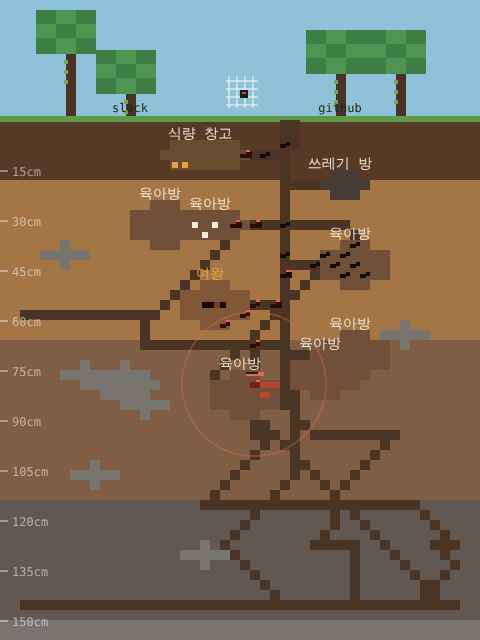
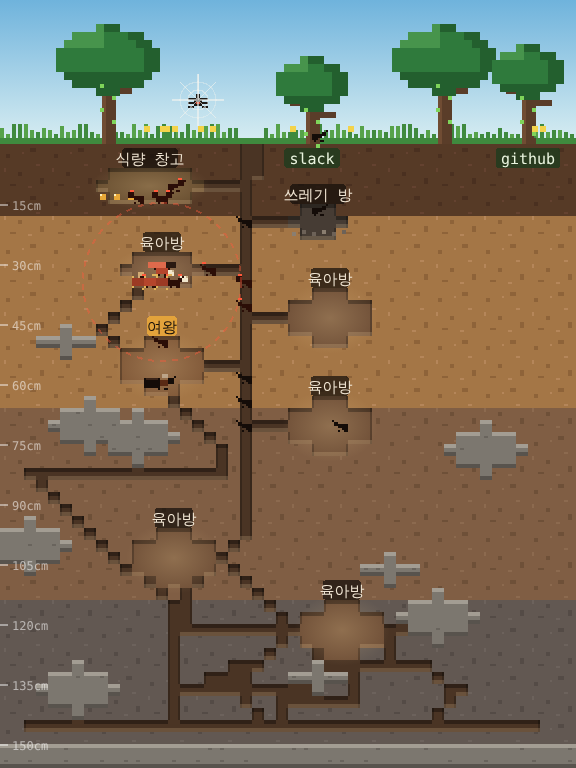
0.3.0: 그래픽 개선, 시간 속도 조정 (접속 1시간 = 게임 하루)
- 흙 질감, 굴 명암, 바위 음영, 방 안 빛, 해·달·구름, 둥근 수관과 계절 장식
- 개미 세 마디와 다리 움직임, 방향 전환, 큰 여왕, 알·애벌레·고치 구분
- 방사형 거미줄, 다리 달린 지네, 점선 경보 원, 글자 배경과 겹침 방지
- 새 방이 기존 방과 겹치지 않게
- 게임 1년 = 접속 약 70시간, 이벤트 보상 재조정

Claude-Session: https://claude.ai/code/session_01HffbAFkTNBcpRNHbS2QgCj

diff --git a/hooks/render.ts b/hooks/render.ts
@@ -46,65 +46,201 @@ function sprites(w: World, ants: Ant[]): Sprite[] {
 }
 
 // ---------- 데스크톱·모바일: SVG ----------
-const S = 5
+// 같은 색 사각형을 path 하나로 묶어 글자 수를 줄인다. 층(layer)마다 그리는 순서를 지킨다.
+const S = 6
+class Painter {
+  layers: Map<string, string[]>[] = []
+  extra: string[][] = []
+  constructor(n: number) { for (let k = 0; k < n; k++) { this.layers.push(new Map()); this.extra.push([]) } }
+  rect(l: number, x: number, y: number, w: number, h: number, c: string) {
+    if (w <= 0 || h <= 0) return
+    const m = this.layers[l]!; let a = m.get(c); if (!a) { a = []; m.set(c, a) }
+    a.push(`M${+x.toFixed(1)} ${+y.toFixed(1)}h${+w.toFixed(1)}v${+h.toFixed(1)}h${-w.toFixed(1)}z`)
+  }
+  raw(l: number, svg: string) { this.extra[l]!.push(svg) }
+  out() {
+    let o = ''
+    this.layers.forEach((m, k) => { m.forEach((d, c) => { o += `<path fill="${c}" d="${d.join('')}"/>` }); o += this.extra[k]!.join('') })
+    return o
+  }
+}
+const hash = (x: number, y: number) => { let h = (x * 374761393 + y * 668265263) >>> 0; h = ((h ^ (h >>> 13)) * 1274126177) >>> 0; return (h >>> 8) / 16777216 }
+const SOILD = ['#4a3020', '#8e6339', '#6e5038', '#544b46'], SOILL = ['#644230', '#b5865a', '#8c6a4f', '#6c625c']
+const L_BG = 0, L_TERR = 1, L_EDGE = 2, L_ITEM = 3, L_ANT = 4, L_FX = 5, L_TXT = 6
+
 export function svg(w: World, ants: Ant[], lang: Lang = 'ko') {
   const RN = lang === 'en' ? ROOMNAME_EN : ROOMNAME
-  const s = season(w), nt = night(w), parts: string[] = []
-  const r = (x: number, y: number, ww: number, hh: number, c: string) => parts.push(`<rect x="${x}" y="${y}" width="${ww}" height="${hh}" fill="${c}"/>`)
-  r(0, 0, W * S, SURF * S, cellColor(w, 0, 0))
-  for (const t of w.trees) {
-    r(t.x * S - 2, (SURF - t.h) * S, 5, t.h * S, mix('#4a3324', '#000000', nt * 0.4))
-    const lc = LEAF[s]!
-    for (let k = 0; k < 9; k++) r((t.x - 3 + (k % 3) * 2) * S - 2, (SURF - t.h - 2 + Math.floor(k / 3) * 1.4) * S, 2 * S, 1.6 * S, lc[k % 2]!)
-    if (s !== 3) for (let k = 0; k < 3; k++) r(t.x * S - 3, (SURF - t.h + 3 + k) * S, 2, 2, '#6fae4a')
-    if (t.farm) parts.push(`<text x="${t.x * S}" y="${SURF * S - 4}" font-size="6" text-anchor="middle" fill="#1a2a12">${t.farm.slice(0, 14).replace(/[<>&"]/g, '')}</text>`)
+  const s = season(w), nt = night(w), h = hour(w), P = new Painter(7), WW = W * S, HH = H * S, GY = SURF * S
+  const defs: string[] = []
+  // 하늘
+  const top = mix(w.rain > 0 ? '#6d7c86' : ['#8ec5d6', '#6fb3dc', '#c9b48e', '#aeb9c0'][s]!, '#0e1430', nt * 0.85)
+  const bot = mix(w.rain > 0 ? '#a3adb0' : ['#e6efd8', '#d9eef2', '#ecd9b0', '#dfe5e8'][s]!, '#1e2440', nt * 0.75)
+  defs.push(`<linearGradient id="sky" x1="0" y1="0" x2="0" y2="1"><stop offset="0" stop-color="${top}"/><stop offset="1" stop-color="${bot}"/></linearGradient>`)
+  P.raw(L_BG, `<rect width="${WW}" height="${GY}" fill="url(#sky)"/>`)
+  if (nt > 0.5) for (let k = 0; k < 26; k++) P.rect(L_BG, Math.floor(hash(k, 1) * WW), Math.floor(hash(k, 2) * (GY - 30)), 1, 1, hash(k, 3) > 0.7 ? '#ffffff' : '#c8d0f0')
+  // 해와 달: 시각에 따라 하늘을 가로지른다
+  const dayP = (h - 6) / 13, nightP = ((h + 24 - 19) % 24) / 11
+  if (w.rain <= 0) {
+    if (dayP >= 0 && dayP <= 1) { const sx = dayP * (WW - 30) + 10, sy = 34 - Math.sin(dayP * Math.PI) * 26; P.rect(L_BG, sx, sy, 10, 10, s === 1 ? '#ffe27a' : '#fff0b0'); P.rect(L_BG, sx - 2, sy + 2, 14, 6, s === 1 ? '#ffe27a' : '#fff0b0'); P.rect(L_BG, sx + 2, sy - 2, 6, 14, s === 1 ? '#ffe27a' : '#fff0b0') }
+    else if (nightP <= 1) { const mx = nightP * (WW - 30) + 10, my = 30 - Math.sin(nightP * Math.PI) * 20; P.rect(L_BG, mx, my, 8, 8, '#eef0d8'); P.rect(L_BG, mx + 3, my - 1, 6, 6, top) }
   }
-  for (let l = 0; l < 4; l++) { const y0 = l === 0 ? SURF : SURF + [0, 6, 22, 38][l]!, y1 = l === 3 ? H : SURF + [6, 22, 38][l]!; r(0, y0 * S, W * S, (y1 - y0) * S, SOILC[l]!) }
-  r(0, SURF * S - 2, W * S, 3, s === 3 ? '#eef2f1' : s === 2 ? '#9a8a3e' : '#5f9a4a')
-  // 굴과 바위: 같은 색이 이어지는 가로 구간을 한 사각형으로
+  // 구름
+  for (let k = 0; k < 3; k++) {
+    const cx = ((hash(k, 9) * WW + w.tick * (0.3 + k * 0.15)) % (WW + 60)) - 30, cy = 12 + k * 14
+    const cc = w.rain > 0 ? mix('#8a959c', '#000000', nt * 0.5) : mix('#ffffff', '#5a6080', nt * 0.7)
+    P.rect(L_BG, cx, cy, 30, 6, cc); P.rect(L_BG, cx + 6, cy - 4, 16, 5, cc); P.rect(L_BG, cx + 4, cy + 6, 22, 2, mix(cc, '#000000', 0.08))
+  }
+  // 땅 위 풀
+  const grass = s === 3 ? ['#e9eeec', '#ffffff'] : s === 2 ? ['#8f8340', '#a69a4c'] : s === 0 ? ['#6fae4e', '#8cc66a'] : ['#3f8a3e', '#56a24a']
+  P.rect(L_TERR, 0, GY - 3, WW, 3, grass[0]!)
+  for (let x = 0; x < WW; x += 3) { const hh = 2 + Math.floor(hash(x, 7) * 6); if (w.grid[idx(Math.floor(x / S), SURF)] === TUN) continue; P.rect(L_TERR, x, GY - 3 - hh, 2, hh, grass[hash(x, 8) > 0.5 ? 1 : 0]!) }
+  if (s < 2) for (let k = 0; k < 10; k++) { const x = Math.floor(hash(k, 11) * WW); if (w.grid[idx(Math.floor(x / S), SURF)] === TUN) continue; P.rect(L_ITEM, x, GY - 9, 3, 3, s === 0 ? (k % 2 ? '#f4b6c8' : '#fff3a8') : '#f3d34a'); P.rect(L_ITEM, x + 1, GY - 6, 1, 3, grass[0]!) }
+  // 나무: 둥근 수관을 줄마다 다른 폭으로
+  const leaf = s === 0 ? ['#7fbf5c', '#a2d47c', '#5f9e46'] : s === 1 ? ['#2f7a3c', '#47944c', '#235f2e'] : s === 2 ? ['#c26f2a', '#dd9a3e', '#9a5322'] : ['#7a5a42', '#8d6a4e', '#5e4434']
+  for (const t of w.trees) {
+    const bx = t.x * S, trunkTop = GY - t.h * S
+    P.rect(L_TERR, bx - 3, trunkTop, 7, t.h * S, mix('#5a3d29', '#000000', nt * 0.4)); P.rect(L_TERR, bx - 3, trunkTop, 2, t.h * S, mix('#704c33', '#000000', nt * 0.4))
+    P.rect(L_TERR, bx + 4, trunkTop + 14, 8, 3, '#5a3d29'); P.rect(L_TERR, bx - 11, trunkTop + 8, 8, 3, '#5a3d29')
+    const R = t.farm ? 3 : 4, cy = trunkTop - 2
+    for (let r = -R; r <= R; r++) {
+      const half = Math.round(Math.sqrt(R * R - r * r) * 1.3 + 0.5)
+      for (let c = -half; c <= half; c++) {
+        const shade = r < -R / 3 && c < 0 ? 1 : r > R / 3 || c > half - 2 ? 2 : 0
+        P.rect(L_TERR, bx + c * 4 - 2, cy + r * 4, 4, 4, mix(leaf[shade]!, '#081020', nt * 0.45))
+      }
+    }
+    if (s === 3) for (let c = -R; c <= R; c++) P.rect(L_ITEM, bx + c * 4 - 2, cy - R * 4 - 1, 4, 2, '#f4f7f6')
+    if (s === 0) for (let k = 0; k < 6; k++) P.rect(L_ITEM, bx - 12 + Math.floor(hash(t.x, k) * 24), cy - 10 + Math.floor(hash(k, t.x) * 18), 3, 3, '#f8cdd8')
+    if (s === 2 && t.x % 2 === 0) for (let k = 0; k < 4; k++) P.rect(L_ITEM, bx - 10 + k * 6, cy - 2 + (k % 2) * 6, 3, 3, '#e8642c')
+    if (s !== 3) for (let k = 0; k < 4; k++) P.rect(L_ITEM, bx + (k % 2 ? 2 : -4), GY - (t.h - 2 - k) * S, 2, 2, '#7fd45a')
+  }
+  // 흙: 층마다 질감 패턴
+  const bands = [[0, 6], [6, 22], [22, 38], [38, H - SURF]]
+  bands.forEach(([a, b], l) => {
+    defs.push(`<pattern id="soil${l}" width="24" height="24" patternUnits="userSpaceOnUse"><rect width="24" height="24" fill="${SOILC[l]}"/><path fill="${SOILD[l]}" d="M3 5h2v2h-2zM15 2h3v2h-3zM9 14h2v2h-2zM20 17h2v3h-2zM5 20h3v1h-3z"/><path fill="${SOILL[l]}" d="M11 4h1v1h-1zM18 10h2v1h-2zM2 12h1v2h-1zM14 21h2v1h-2z"/></pattern>`)
+    P.raw(L_BG, `<rect x="0" y="${(SURF + a!) * S}" width="${WW}" height="${(b! - a!) * S}" fill="url(#soil${l})"/>`)
+    if (l > 0) P.rect(L_BG, 0, (SURF + a!) * S, WW, 1, SOILD[l]!)
+  })
+  // 나무뿌리
+  for (const t of w.trees) for (let k = 0; k < 3; k++) { let x = t.x * S, y = GY; for (let n = 0; n < 9; n++) { x += (k - 1) * 3 + (hash(t.x * 3 + k, n) - 0.5) * 6; y += 4; P.rect(L_BG, x, y, 2, 4, '#3b2a1c') } }
+  // 바위와 굴: 칸마다 위아래 이웃을 보고 명암을 준다
+  const at = (x: number, y: number) => (x < 0 || x >= W || y < 0 || y >= H ? SOIL : w.grid[idx(x, y)]!)
   for (let y = SURF; y < H; y++) {
     let x = 0
     while (x < W) {
-      const c = w.grid[idx(x, y)]
+      const c = at(x, y)
       if (c !== TUN && c !== ROCK) { x++; continue }
-      const col = cellColor(w, x, y); let x2 = x + 1
-      while (x2 < W && (w.grid[idx(x2, y)] === TUN || w.grid[idx(x2, y)] === ROCK) && cellColor(w, x2, y) === col) x2++
-      r(x * S, y * S, (x2 - x) * S, S, col); x = x2
+      const col = c === ROCK ? '#7c776f' : cellColor(w, x, y); let x2 = x + 1
+      while (x2 < W && at(x2, y) === c && (c === ROCK || cellColor(w, x2, y) === col)) x2++
+      P.rect(L_TERR, x * S, y * S, (x2 - x) * S, S, col)
+      for (let k = x; k < x2; k++) {
+        if (c === ROCK) {
+          if (at(k, y - 1) !== ROCK) P.rect(L_EDGE, k * S, y * S, S, 2, '#a39d93')
+          if (at(k, y + 1) !== ROCK) P.rect(L_EDGE, k * S, y * S + S - 2, S, 2, '#58534d')
+          if (hash(k, y) > 0.8) P.rect(L_EDGE, k * S + 2, y * S + 2, 2, 1, '#69645d')
+        } else {
+          if (at(k, y - 1) === SOIL) P.rect(L_EDGE, k * S, y * S, S, 2, 'rgba(0,0,0,.35)')
+          if (at(k, y + 1) === SOIL) P.rect(L_EDGE, k * S, y * S + S - 2, S, 2, 'rgba(255,220,170,.18)')
+          if (at(k - 1, y) === SOIL) P.rect(L_EDGE, k * S, y * S, 1, S, 'rgba(0,0,0,.25)')
+          if (at(k + 1, y) === SOIL) P.rect(L_EDGE, k * S + S - 1, y * S, 1, S, 'rgba(0,0,0,.25)')
+        }
+      }
+      x = x2
     }
   }
+  // 방 안쪽의 은은한 빛
+  defs.push('<radialGradient id="glow"><stop offset="0" stop-color="#ffdca0" stop-opacity=".22"/><stop offset="1" stop-color="#ffdca0" stop-opacity="0"/></radialGradient>')
+  for (const c of w.chambers) if (c.type !== 'waste') P.raw(L_EDGE, `<ellipse cx="${c.cx * S + S / 2}" cy="${c.cy * S + S / 2}" rx="${(c.rx + 1) * S}" ry="${(c.ry + 1) * S}" fill="url(#glow)"/>`)
+  // 동결선
   const fd = frostDepth(w)
-  if (fd > 0) { const yy = SURF * S + (fd / CM) * S; r(0, SURF * S, W * S, yy - SURF * S, 'rgba(200,230,255,.18)'); r(0, yy, W * S, 1, '#dcefff'); parts.push(`<text x="${W * S - 3}" y="${yy - 2}" font-size="7" text-anchor="end" fill="#dcefff">${lang === 'en' ? 'Frost line' : '동결선'} ${fd}cm</text>`) }
-  // 새끼·먹이
-  for (const sp of sprites(w, []).filter(p => p.c === '#f3ece0' || p.c === '#e2a33a' || p.c === '#c9472f')) r(sp.x * S + 1, sp.y * S + 1, 3, 3, sp.c)
-  // 개미
-  for (const a of ants) {
-    const y = a.st === 'out' ? (SURF - 1 - a.up) * S + 1 : a.y * S + 1, x = a.x * S
-    const body = a.job === 'swarm' ? '#2a0d06' : a.kind === 'm' ? '#3a2214' : '#120b07'
-    r(x, y + 1, 3, 2, body); r(x + 3, y, a.kind === 'm' ? 3 : 2, a.kind === 'm' ? 3 : 2, body)
-    if (a.job === 'swarm') r(x + 3, y - 1, 2, 1, '#ff5a3c')
-    if (a.carry) r(x + 4, y - 2, 2, 2, a.carry === 2 ? '#c9472f' : '#e2a33a')
+  if (fd > 0) { const yy = GY + (fd / CM) * S; P.rect(L_FX, 0, GY, WW, yy - GY, 'rgba(200,230,255,.16)'); for (let x = 0; x < WW; x += 8) P.rect(L_FX, x, yy, 5, 1, '#dcefff') }
+  // 새끼: 방마다 알·애벌레·고치 모양을 달리
+  const per: Record<number, { egg: number; larva: number; pupa: number }> = {}
+  for (const b of w.brood) { const r = (per[b.room] ??= { egg: 0, larva: 0, pupa: 0 }); r[b.st] += b.n }
+  for (const id in per) {
+    const c = w.chambers[+id]; if (!c) continue
+    const r = per[id]!, floor = (c.cy + c.ry) * S + S - 2, x0 = (c.cx - c.rx + 1) * S, span = (c.rx * 2 - 1) * S
+    const nE = Math.min(12, Math.ceil(r.egg / 3)), nL = Math.min(8, Math.ceil(r.larva / 4)), nP = Math.min(8, Math.ceil(r.pupa / 4))
+    for (let k = 0; k < nE; k++) P.rect(L_ITEM, x0 + ((k * 5) % span), floor - 3 - Math.floor(k / Math.max(1, span / 5)) * 2, 2, 2, '#fbf7ee')
+    for (let k = 0; k < nL; k++) { const x = x0 + span - 6 - ((k * 7) % span), y = floor - 4 - (k % 2) * 3; P.rect(L_ITEM, x, y, 4, 3, '#f1e6cc'); P.rect(L_ITEM, x + 3, y, 1, 1, '#c9b48e') }
+    for (let k = 0; k < nP; k++) { const x = x0 + ((k * 6 + 3) % span), y = floor - 6; P.rect(L_ITEM, x, y, 3, 5, '#d2aa74'); P.rect(L_ITEM, x, y + 4, 3, 1, '#a07e4e') }
   }
-  const q = w.chambers[w.queen.room]!
-  r(q.cx * S - 4, q.cy * S + 1, 6, 3, '#120b07'); r(q.cx * S + 2, q.cy * S + 1, 3, 3, '#7a3b1f'); r(q.cx * S + 5, q.cy * S + 1, 3, 3, '#120b07')
+  // 창고와 쓰레기 방
+  for (const c of w.chambers) {
+    const floor = (c.cy + c.ry) * S + S - 2, x0 = (c.cx - c.rx) * S + 2, span = (c.rx * 2 + 1) * S - 4
+    if (c.type === 'store') {
+      const nC = Math.min(14, Math.round(w.carb / 20)), nP = Math.min(8, Math.round(w.prot / 15))
+      for (let k = 0; k < nC; k++) { const x = x0 + ((k * 7) % span), y = floor - 3 - Math.floor((k * 7) / span) * 3; P.rect(L_ITEM, x, y, 3, 3, '#e8a838'); P.rect(L_ITEM, x, y, 1, 1, '#fff0b8') }
+      for (let k = 0; k < nP; k++) P.rect(L_ITEM, x0 + span - 4 - ((k * 9) % span), floor - 3 - (k % 2) * 2, 4, 2, '#b2442c')
+    } else if (c.type === 'waste') for (let k = 0; k < 6; k++) P.rect(L_ITEM, x0 + ((k * 5) % span), floor - 2 - (k % 2), 2, 2, k % 3 ? '#6d6258' : '#8a7e70')
+  }
+  // 개미: 머리·가슴·배 세 마디, 다리는 프레임마다 번갈아
+  const flip = w.tick % 2
+  for (const [i, a] of ants.entries()) {
+    const f = a.f ?? 1, out = a.st === 'out', climbing = out && a.up > 0
+    const body = a.job === 'swarm' ? '#2b0e07' : a.kind === 'm' ? '#3a2214' : '#140c08'
+    if (climbing) {
+      const x = a.x * S + (i % 2 ? 4 : -2), y = GY - 6 - a.up * S
+      P.rect(L_ANT, x + 1, y, 2, 2, body); P.rect(L_ANT, x + 1, y + 2, 2, 1, body); P.rect(L_ANT, x, y + 3, 4, 3, body)
+      P.rect(L_ANT, x - 1, y + 1 + flip, 1, 1, body); P.rect(L_ANT, x + 4, y + 2 - flip, 1, 1, body)
+      if (a.carry) P.rect(L_FX, x + 1, y - 2, 2, 2, a.carry === 2 ? '#c9472f' : '#e8a838')
+      continue
+    }
+    const y = out ? GY - 6 : a.y * S + 1, x = a.x * S
+    const g = f > 0 ? x : x + 3, th = f > 0 ? x + 3 : x + 1, hd = f > 0 ? x + 5 : x - 1
+    const big = a.kind === 'm'
+    P.rect(L_ANT, g, y + 1, 3, 3, body); P.rect(L_ANT, th, y + 1, 2, 2, body)
+    P.rect(L_ANT, big ? (f > 0 ? hd : hd - 1) : hd, big ? y - 1 : y, big ? 3 : 2, big ? 3 : 2, body)
+    P.rect(L_ANT, f > 0 ? hd + (big ? 3 : 2) : hd - 1, y - 1, 1, 1, body)
+    for (let k = 0; k < 3; k++) P.rect(L_ANT, x + 1 + k * 2 + ((k + flip) % 2), y + 4, 1, 1, body)
+    if (a.job === 'swarm') P.rect(L_FX, hd, y - 2, 2, 1, '#ff5a3c')
+    if (a.carry) P.rect(L_FX, f > 0 ? hd + 1 : hd - 2, y - 2, 3, 2, a.carry === 2 ? '#c9472f' : '#e8a838')
+  }
+  // 여왕: 크고 날개 자국이 있다
+  const q = w.chambers[w.queen.room]!, qx = q.cx * S - 6, qy = (q.cy + q.ry) * S - 3
+  P.rect(L_ANT, qx, qy, 8, 5, '#140c08'); P.rect(L_ANT, qx + 1, qy, 6, 1, '#3a2418'); P.rect(L_ANT, qx + 8, qy + 1, 4, 3, '#5a2a14'); P.rect(L_ANT, qx + 12, qy, 3, 3, '#140c08')
+  P.rect(L_ANT, qx + 9, qy - 2, 3, 2, 'rgba(230,220,200,.5)'); P.rect(L_ANT, qx + 15, qy - 1, 1, 1, '#140c08')
+  for (let k = 0; k < 3; k++) P.rect(L_ANT, qx + 7 + k * 2 + ((k + flip) % 2), qy + 5, 1, 1, '#140c08')
   // 천적
   for (const t of w.threats) {
     if (t.k === 'spider') {
-      const x = t.x * S, y = (SURF - 4) * S
-      for (let k = 0; k < 4; k++) { r(x - 6 + k * 4, y - 2, 1, 16, 'rgba(245,245,240,.55)'); r(x - 7, y + k * 4, 16, 1, 'rgba(245,245,240,.55)') }
-      r(x, y + 5, 4, 4, '#1d1a17'); r(x + 1, y + 6, 2, 1, '#c9472f')
+      const cx = t.x * S + 3, cy = GY - 22
+      let lines = ''
+      for (let k = 0; k < 8; k++) { const an = (k / 8) * Math.PI * 2; lines += `M${cx} ${cy}l${(Math.cos(an) * 13).toFixed(1)} ${(Math.sin(an) * 13).toFixed(1)}` }
+      P.raw(L_FX, `<path d="${lines}" stroke="rgba(245,245,240,.6)" stroke-width=".6" fill="none"/><circle cx="${cx}" cy="${cy}" r="5" stroke="rgba(245,245,240,.45)" stroke-width=".6" fill="none"/><circle cx="${cx}" cy="${cy}" r="9" stroke="rgba(245,245,240,.35)" stroke-width=".6" fill="none"/><path d="M${cx} ${GY - 35}V${cy}" stroke="rgba(245,245,240,.5)" stroke-width=".5"/>`)
+      P.rect(L_FX, cx - 2, cy - 1, 4, 4, '#1d1a17'); P.rect(L_FX, cx - 1, cy - 3, 2, 2, '#1d1a17'); P.rect(L_FX, cx - 1, cy + 1, 2, 1, '#c9472f')
+      for (const d of [-1, 1]) for (let k = 0; k < 3; k++) P.rect(L_FX, cx + (d < 0 ? -5 : 2), cy - 1 + k * 2, 3, 1, '#1d1a17')
     } else {
-      for (const [x, y] of t.trail) r(x * S, y * S + 1, 5, 3, '#b5452c')
-      r(t.x * S, t.y * S + 1, 5, 3, '#6e2316')
-      parts.push(`<circle cx="${t.x * S + 2}" cy="${t.y * S + 2}" r="${t.alarmR * S * 0.6}" fill="none" stroke="rgba(222,106,76,.35)"/>`)
-      r(t.x * S - 2, t.y * S - 4, 9, 2, '#de6a4c'); r(t.x * S - 2, t.y * S - 4, Math.max(1, Math.round((9 * t.hp) / t.hp0)), 1, '#2a1a12')
+      const segs: [number, number][] = [[t.x, t.y], ...t.trail]
+      segs.forEach(([sx, sy], k) => {
+        const x = sx * S, y = sy * S + 1
+        P.rect(L_FX, x, y, 6, 4, k === 0 ? '#5e1d12' : k % 2 ? '#b5452c' : '#9c3a24'); P.rect(L_FX, x + 1, y, 4, 1, '#d8643f')
+        P.rect(L_FX, x, y + 4 + flip, 1, 1, '#e0b35a'); P.rect(L_FX, x + 5, y + 5 - flip, 1, 1, '#e0b35a'); P.rect(L_FX, x, y - 1 - flip, 1, 1, '#e0b35a')
+      })
+      P.rect(L_FX, t.x * S - 2, t.y * S - 1, 2, 1, '#e0b35a'); P.rect(L_FX, t.x * S + 6, t.y * S - 1, 2, 1, '#e0b35a')
+      P.raw(L_FX, `<circle cx="${t.x * S + 3}" cy="${t.y * S + 3}" r="${(t.alarmR * S * 0.55).toFixed(1)}" fill="none" stroke="rgba(255,90,60,.4)" stroke-dasharray="3 3"/>`)
+      P.rect(L_TXT, t.x * S - 4, t.y * S - 7, 14, 3, '#2a1a12'); P.rect(L_TXT, t.x * S - 4, t.y * S - 7, Math.max(1, Math.round((14 * t.hp) / t.hp0)), 3, '#de6a4c')
     }
   }
-  if (w.rain > 0 && s !== 3) for (let k = 0; k < 40; k++) r((k * 37 + w.tick * 13) % (W * S), (k * 23 + w.tick * 29) % (SURF * S - 4), 1, 4, 'rgba(215,232,245,.8)')
-  for (const c of w.chambers) if (c.type !== 'queen') parts.push(`<text x="${c.cx * S}" y="${(c.cy - c.ry) * S - 1}" font-size="7" text-anchor="middle" fill="#efe4d2">${RN[c.type]}</text>`)
-  parts.push(`<text x="${q.cx * S}" y="${(q.cy - q.ry) * S - 1}" font-size="7" text-anchor="middle" fill="#e3a33b">${lang === 'en' ? 'Queen' : '여왕'}</text>`)
-  for (let d = 15; d < (H - SURF) * CM; d += 15) { const y = (SURF + d / CM) * S; parts.push(`<rect x="0" y="${y}" width="4" height="1" fill="rgba(255,255,255,.4)"/><text x="6" y="${y + 3}" font-size="6" fill="rgba(255,255,255,.5)">${d}cm</text>`) }
-  if (nt > 0) r(0, 0, W * S, SURF * S, `rgba(10,12,24,${(nt * 0.18).toFixed(2)})`)
-  return `<svg xmlns="http://www.w3.org/2000/svg" viewBox="0 0 ${W * S} ${H * S}" width="${W * S}" height="${H * S}" shape-rendering="crispEdges" font-family="monospace">${parts.join('')}</svg>`
+  // 비와 눈
+  if (w.rain > 0 && s !== 3) for (let k = 0; k < 50; k++) P.rect(L_FX, (k * 37 + w.tick * 13) % WW, (k * 23 + w.tick * 29) % (GY - 4), 1, 5, 'rgba(215,232,245,.75)')
+  if (s === 3) for (let k = 0; k < 40; k++) P.rect(L_FX, (k * 41 + w.tick * 3) % WW, (k * 19 + w.tick * 5) % (GY - 4), 2, 2, 'rgba(255,255,255,.85)')
+  if (nt > 0) P.rect(L_FX, 0, 0, WW, GY, `rgba(8,10,28,${(nt * 0.22).toFixed(2)})`)
+  // 글자: 배경 상자를 깔고, 겹치면 생략
+  const boxes: [number, number, number, number][] = []
+  const label = (text: string, cx: number, y: number, fg: string, bg: string) => {
+    const wdt = text.length * 4.4 + 6, x = Math.max(2, Math.min(WW - wdt - 2, cx - wdt / 2))
+    if (boxes.some(([bx, by, bw, bh]) => x < bx + bw && x + wdt > bx && y - 8 < by + bh && y + 2 > by)) return
+    boxes.push([x, y - 8, wdt, 10])
+    P.raw(L_TXT, `<rect x="${x.toFixed(1)}" y="${y - 8}" width="${wdt.toFixed(1)}" height="10" rx="2" fill="${bg}"/><text x="${(x + wdt / 2).toFixed(1)}" y="${y}" font-size="7.5" text-anchor="middle" fill="${fg}">${text.replace(/[<>&"]/g, '')}</text>`)
+  }
+  label(lang === 'en' ? 'Queen' : '여왕', q.cx * S + 3, (q.cy - q.ry) * S - 2, '#1a120a', '#e3a33b')
+  for (const c of w.chambers) if (c.type !== 'queen') label(RN[c.type], c.cx * S + 3, (c.cy - c.ry) * S - 2, '#efe4d2', 'rgba(20,14,10,.72)')
+  for (const t of w.trees) if (t.farm) label(t.farm.slice(0, 14), t.x * S, GY + 10, '#eaf5df', 'rgba(30,60,30,.8)')
+  if (fd > 0) label(`${lang === 'en' ? 'Frost line' : '동결선'} ${fd}cm`, WW - 40, GY + (fd / CM) * S - 2, '#0b1a2a', 'rgba(220,240,255,.9)')
+  // 깊이 눈금
+  for (let d = 15; d < (H - SURF) * CM; d += 15) { const y = (SURF + d / CM) * S; P.rect(L_TXT, 0, y, 4, 1, 'rgba(255,255,255,.45)'); P.raw(L_TXT, `<text x="6" y="${y + 3}" font-size="6" fill="rgba(255,255,255,.55)">${d}cm</text>`) }
+  return `<svg xmlns="http://www.w3.org/2000/svg" viewBox="0 0 ${WW} ${HH}" width="${WW}" height="${HH}" shape-rendering="crispEdges" font-family="monospace"><defs>${defs.join('')}</defs>${P.out()}</svg>`
 }
 
 // ---------- 터미널: 반 블록(▀) 한 글자에 위아래 두 칸 ----------

diff --git a/hooks/engine.ts b/hooks/engine.ts
@@ -15,7 +15,7 @@ export type RoomType = 'queen' | 'brood' | 'store' | 'waste'
 export type Chamber = { id: number; cx: number; cy: number; rx: number; ry: number; type: RoomType }
 export type Brood = { st: Stage; n: number; dev: number; prot: number; room: number }
 export type Cohort = { age: number; n: number; kind: 'w' | 'm' }
-export type Ant = { x: number; y: number; kind: 'w' | 'm'; job: 'idle' | 'forage' | 'dig' | 'guard' | 'swarm'; st: 'in' | 'out'; tx: number; carry: 0 | 1 | 2; t: number; climb: number; up: number }
+export type Ant = { x: number; y: number; kind: 'w' | 'm'; job: 'idle' | 'forage' | 'dig' | 'guard' | 'swarm'; st: 'in' | 'out'; tx: number; carry: 0 | 1 | 2; t: number; climb: number; up: number; f?: number }
 export type Threat = { k: 'spider' | 'centipede'; x: number; y: number; hp: number; hp0: number; life: number; tool?: string; trail: [number, number][]; alarmR: number; ate: number }
 export type LogLine = { s: number; d: number; ko: string; en: string }
 export type Tally = { explore: number; build: number; hunt: number; raise: number; bugs: number; fixed: number; mcp: number; skill: number; auto: number; plan: number; parallel: number }
@@ -66,6 +66,11 @@ function carve(w: World, x: number, y: number) {
   if (!inb(x, y) || y < SURF) return false
   const i = idx(x, y); if (w.grid[i] === ROCK) return false
   w.grid[i] = TUN; if (y > w.deepest) w.deepest = y; return true
+}
+// 새 방이 기존 방과 겹치지 않는지 (가장자리 2칸 여유)
+function roomFree(w: World, cx: number, cy: number, rx: number, ry: number) {
+  if (cx - rx < 2 || cx + rx > W - 3 || cy - ry < SURF + 3 || cy + ry > H - 4) return false
+  return w.chambers.every(c => Math.abs(c.cx - cx) > c.rx + rx + 2 || Math.abs(c.cy - cy) > c.ry + ry + 2)
 }
 function makeChamber(w: World, cx: number, cy: number, rx: number, ry: number, type: RoomType) {
   const id = w.chambers.length
@@ -126,7 +131,9 @@ function digStep(w: World) {
     for (const ch of w.chambers) c[ch.type] = (c[ch.type] ?? 0) + 1
     const type: RoomType = (c.store ?? 0) < 1 + Math.floor(w.carb / 120) ? 'store' : (c.waste ?? 0) < 1 + Math.floor(workers(w) / 200) ? 'waste' : 'brood'
     const rx = type === 'waste' ? 2 : 3, ry = type === 'waste' ? 1 : 2
-    makeChamber(w, t.x + (t.dx >= 0 ? rx + 1 : -rx - 1), t.y, rx, ry, type)
+    const cx = t.x + (t.dx >= 0 ? rx + 1 : -rx - 1)
+    if (!roomFree(w, cx, t.y, rx, ry)) return false
+    makeChamber(w, cx, t.y, rx, ry, type)
     say(w, `지하 ${(t.y - SURF) * CM}cm에 ${ROOMNAME[type]}을 새로 팠다.`, `Dug a new ${ROOMNAME_EN[type].toLowerCase()} chamber ${(t.y - SURF) * CM}cm down.`)
     if (w.tips.length < 4) w.tips.push({ x: t.x, y: t.y, dx: -t.dx || 1, dy: 1 })
     return true
@@ -313,23 +320,28 @@ export function moveAnts(w: World, ants: Ant[]) {
   const s = season(w), cen = w.threats.find(t => t.k === 'centipede'), spider = w.threats.find(t => t.k === 'spider')
   const ex = entranceX(w), qr = w.chambers[w.queen.room]!
   for (const a of ants) {
+    const ox = a.x
+    moveOne(a)
+    if (a.x !== ox) a.f = a.x > ox ? 1 : -1
+  }
+  function moveOne(a: Ant) {
     if (a.st === 'out') {
       // 나무에 오르내리기: up이 지금 높이, climb이 진딧물이 있는 높이
-      if (!a.carry && a.x === a.tx) { if (a.up < a.climb) { a.up++; continue } a.carry = a.t as 1 | 2; continue }
-      if (a.carry && a.up > 0) { a.up--; continue }
+      if (!a.carry && a.x === a.tx) { if (a.up < a.climb) { a.up++; return } a.carry = a.t as 1 | 2; return }
+      if (a.carry && a.up > 0) { a.up--; return }
       const goal = a.carry ? ex : a.tx
-      if (spider && a.x === spider.x && rnd() < 0.12) { const old = w.cohorts.filter(c => c.kind === 'w').sort((x, y) => y.age - x.age)[0]; if (old) old.n = Math.max(0, old.n - 1); say(w, '채집 개미 한 마리가 거미줄에 걸렸다.', 'A forager got caught in the web.'); a.st = 'in'; a.job = 'idle'; a.x = qr.cx; a.y = qr.cy; a.carry = 0; continue }
+      if (spider && a.x === spider.x && rnd() < 0.12) { const old = w.cohorts.filter(c => c.kind === 'w').sort((x, y) => y.age - x.age)[0]; if (old) old.n = Math.max(0, old.n - 1); say(w, '채집 개미 한 마리가 거미줄에 걸렸다.', 'A forager got caught in the web.'); a.st = 'in'; a.job = 'idle'; a.x = qr.cx; a.y = qr.cy; a.carry = 0; return }
       if (a.x !== goal) a.x += Math.sign(goal - a.x)
       else { a.st = 'in'; a.y = SURF; a.job = 'idle'; a.carry = 0 }
-      continue
+      return
     }
     if (w.grid[idx(a.x, a.y)] !== TUN) { a.x = qr.cx; a.y = qr.cy }
-    if (s === 3) { step(w, a, qr.cx + Math.round((rnd() - 0.5) * qr.rx * 2), qr.cy, 0.8); continue }
-    if (cen && (a.kind === 'm' || Math.abs(a.x - cen.x) + Math.abs(a.y - cen.y) <= cen.alarmR)) { a.job = 'swarm'; step(w, a, cen.x, cen.y, 0.97); continue }
+    if (s === 3) { step(w, a, qr.cx + Math.round((rnd() - 0.5) * qr.rx * 2), qr.cy, 0.8); return }
+    if (cen && (a.kind === 'm' || Math.abs(a.x - cen.x) + Math.abs(a.y - cen.y) <= cen.alarmR)) { a.job = 'swarm'; step(w, a, cen.x, cen.y, 0.97); return }
     if (a.job === 'swarm') a.job = a.kind === 'm' ? 'guard' : 'idle'
-    if (a.job === 'forage') { if (a.y <= SURF) { a.st = 'out'; a.y = SURF - 1 } else step(w, a, ex, SURF, 0.9); continue }
-    if (a.job === 'dig') { const t = w.tips[0]; if (t) step(w, a, t.x, t.y, 0.8); if (--a.t <= 0) a.job = 'idle'; continue }
-    if (a.job === 'guard') { step(w, a, ex + Math.round((rnd() - 0.5) * 3), SURF + 3, 0.6); continue }
+    if (a.job === 'forage') { if (a.y <= SURF) { a.st = 'out'; a.y = SURF - 1 } else step(w, a, ex, SURF, 0.9); return }
+    if (a.job === 'dig') { const t = w.tips[0]; if (t) step(w, a, t.x, t.y, 0.8); if (--a.t <= 0) a.job = 'idle'; return }
+    if (a.job === 'guard') { step(w, a, ex + Math.round((rnd() - 0.5) * 3), SURF + 3, 0.6); return }
     const rooms = w.chambers.filter(c => c.type !== 'waste'), r = rooms[(a.x * 7 + a.y) % rooms.length]!
     step(w, a, r.cx + Math.round((rnd() - 0.5) * r.rx * 2), r.cy, rnd() < 0.5 ? 0.6 : 0.1)
   }

diff --git a/hooks/register.tsx b/hooks/register.tsx
@@ -10,7 +10,8 @@ import { svg, raster } from './render'
 import { classify, colonyType, isTestLike } from './usage'
 
 const PANE = 'ant-nest'
-const FRAME_MS = 500, FRAMES_PER_HOUR = 4
+// 접속 2.5분 = 게임 1시간, 접속 1시간 = 게임 하루, 약 70시간 = 게임 1년
+const FRAME_MS = 500, FRAMES_PER_HOUR = 300
 const view = atom({ plugin: 'ant-nest', key: 'view' } as const, { frame: 0 })
 
 
@@ -56,7 +57,7 @@ export const register: Register = (on, options) => {
   let frame = 0, hourGain = 0, lastStatus = '', paneNote = '-'
 
   const bump = (k: keyof Tally) => { w.today[k]++; w.total[k]++ }
-  const gain = (n: number) => { const g = Math.max(0, Math.min(n, 30 - hourGain)); hourGain += g; return g }
+  const gain = (n: number) => { const g = Math.max(0, Math.min(n, 8 - hourGain)); hourGain += g; return g }
   // 상태줄에 새로 쓸 글이 있으면 돌려준다
   const statusText = () => {
     const pop = Math.round(workers(w) + majors(w))
@@ -157,11 +158,11 @@ export const register: Register = (on, options) => {
         say(w, `처음 보는 도구(${tool})를 만났다. 이름으로 짐작해 일을 나눴다.`, `Met an unfamiliar tool (${tool}). The colony guessed its job from the name.`)
       }
       switch (use.kind) {
-        case 'explore': bump('explore'); w.carb += gain(2 * (1 + w.trail * 0.2)); sendForager(w, ants, 1); break
-        case 'build': bump('build'); w.digQueue += 6; sendDigger(w, ants); break
-        case 'hunt': bump('hunt'); w.prot += gain(5); sendForager(w, ants, 2); say(w, '테스트가 통과했다. 사냥조가 곤충을 끌고 돌아온다.', 'Tests passed. The hunting party drags an insect home.'); break
-        case 'raise': bump('raise'); w.brood.push({ st: 'egg', n: 3, dev: 0, prot: 0, room: w.queen.room }); say(w, '일을 나눠 맡겼다. 여왕이 알을 더 낳았다.', 'Work was delegated. The queen laid extra eggs.'); break
-        case 'mcp': { bump('mcp'); const t = farmFor(w, use.server ?? 'mcp'); w.carb += gain(3); sendTo(w, ants, t.x, t.h, 1); break }
+        case 'explore': bump('explore'); w.carb += gain(0.35 * (1 + w.trail * 0.2)); sendForager(w, ants, 1); break
+        case 'build': bump('build'); w.digQueue = Math.min(40, w.digQueue + 1); sendDigger(w, ants); break
+        case 'hunt': bump('hunt'); w.prot += gain(1.5); sendForager(w, ants, 2); say(w, '테스트가 통과했다. 사냥조가 곤충을 끌고 돌아온다.', 'Tests passed. The hunting party drags an insect home.'); break
+        case 'raise': bump('raise'); w.brood.push({ st: 'egg', n: 1, dev: 0, prot: 0, room: w.queen.room }); say(w, '일을 나눠 맡겼다. 여왕이 알을 더 낳았다.', 'Work was delegated. The queen laid extra eggs.'); break
+        case 'mcp': { bump('mcp'); const t = farmFor(w, use.server ?? 'mcp'); w.carb += gain(0.5); sendTo(w, ants, t.x, t.h, 1); break }
         case 'skill': {
           bump('skill'); const before = Math.floor(w.trail); w.trail = Math.min(3, w.trail + 0.3)
           if (Math.floor(w.trail) > before) say(w, '익힌 방법(스킬)을 다시 썼다. 페로몬 길이 짙어져 채집이 빨라진다.', 'A learned method (skill) was reused. The pheromone trail grows stronger and foraging speeds up.')
@@ -172,13 +173,13 @@ export const register: Register = (on, options) => {
           if (use.setup) { w.instinct = Math.min(10, w.instinct + 1); say(w, '자동화를 걸어 두었다. 개미들이 스스로 하는 일(본능)이 늘었다.', 'Automation was set up. The ants now do more on instinct, even without you.') }
           else w.instinct = Math.min(10, w.instinct + 0.1)
           break
-        case 'plan': bump('plan'); w.digQueue += 2; w.carb += gain(1); break
+        case 'plan': bump('plan'); w.digQueue = Math.min(40, w.digQueue + 1); w.carb += gain(0.2); break
         case 'parallel':
           bump('parallel'); for (let k = 0; k < 4; k++) sendForager(w, ants, k === 0 ? 2 : 1)
-          w.brood.push({ st: 'egg', n: 2, dev: 0, prot: 0, room: w.queen.room })
+          w.brood.push({ st: 'egg', n: 1, dev: 0, prot: 0, room: w.queen.room })
           say(w, '여러 에이전트를 동시에 보냈다. 원정대가 줄지어 굴을 나선다.', 'Several agents went out at once. An expedition files out of the nest.')
           break
-        default: if (tool === 'Bash') w.carb += gain(1)
+        default: if (tool === 'Bash') w.carb += gain(0.2)
       }
     }
     const st = statusText(); if (st) $.ui.status(st)
@@ -200,7 +201,7 @@ export const register: Register = (on, options) => {
       picture = <Raster key="nest" {...raster(w, ants)} />
     } else if (e.surface === 'desktop' || e.surface === 'mobile' || e.surface === 'vscode') {
       const { Svg } = $.ui.resolve(e as typeof e & { surface: 'desktop' })
-      picture = <Svg source={svg(w, ants, lang)} alt={T.alt(pop)} width={240} height={320} />
+      picture = <Svg source={svg(w, ants, lang)} alt={T.alt(pop)} width={288} height={384} />
     }
     return (
       <Box flexDirection="column">

diff --git a/README.md b/README.md
@@ -14,7 +14,7 @@
 
 **English** · [한국어](#한국어) · [Show your colony](https://github.com/findot-ai/ant-nest/issues/new?template=show-your-colony.yml)
 
-A colony of Japanese carpenter ants (*Camponotus japonicus*) lives beside your Claude Code session. While you are connected, 2 seconds is one game hour: seasons turn, brood grows with soil temperature, and the frost line creeps down in winter. Think of it as a Tamagotchi for your AI workflow, built on real ant ecology.
+A colony of Japanese carpenter ants (*Camponotus japonicus*) lives beside your Claude Code session. Time runs only while you are connected: one hour connected is one game day, and about 70 hours is a game year, so with everyday use a year passes in roughly a month. Seasons turn, brood grows with soil temperature, and the frost line creeps down in winter. Think of it as a Tamagotchi for your AI workflow, built on real ant ecology.
 
 The colony's food and weather come from how you use AI. The mod never reads your code or conversation. It looks only at tool names and whether each call succeeded.
 
@@ -80,7 +80,7 @@ The desktop app draws the nest as pixel art in a side pane. A terminal draws it 
 
 <p align="center"><img src="docs/nest-ko.png" width="360" alt="개미굴: 지네가 침입하고 거미줄이 쳐진 개미 군락 단면 도트 그림"></p>
 
-Claude Code 옆에서 일본왕개미 군락이 살아 움직입니다. 접속해 있는 동안 2초가 게임 1시간이고, 계절이 바뀌고, 새끼가 땅속 온도에 따라 자라고, 겨울에는 동결선이 내려옵니다.
+Claude Code 옆에서 일본왕개미 군락이 살아 움직입니다. 시간은 접속해 있을 때만 흐릅니다. 접속 1시간이 게임 하루, 약 70시간이 게임 1년이라 매일 쓰면 대략 한 달에 1년이 지납니다. 계절이 바뀌고, 새끼가 땅속 온도에 따라 자라고, 겨울에는 동결선이 내려옵니다.
 
 군락의 먹이와 날씨는 당신의 AI 활용입니다. 코드나 대화 내용은 읽지 않고, 도구 이름과 성공 여부만 봅니다.
 
